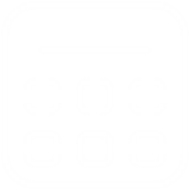
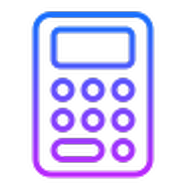
Add files via upload
- Иконка изменилась.

Changed region(s): [[0.1562, 0.0312, 0.8125, 0.9375]]

diff --git a/index.html b/index.html
@@ -5,6 +5,7 @@
   <title>ConCalc</title>
   <link rel="manifest" href="manifest.json">
   <link rel="stylesheet" href="style.css">
+  <link type="image/png" sizes="96x96" rel="icon" href="icons/icon-96.png">
   <meta name="viewport" content="width=device-width, initial-scale=1">
   <!-- Подключаем math.js через CDN -->
   <script src="https://cdnjs.cloudflare.com/ajax/libs/mathjs/11.8.0/math.min.js"></script>

diff --git a/service-worker.js b/service-worker.js
@@ -1,10 +1,11 @@
-const cacheName = 'calc-editor-v5';
+const cacheName = 'calc-editor-v6';
 const assets = [
   './',
   'index.html',
   'style.css',
   'main.js',
   'manifest.json',
+  'icons/icon-96.png',
   'icons/icon-192.png',
   'icons/icon-512.png'
 ];
